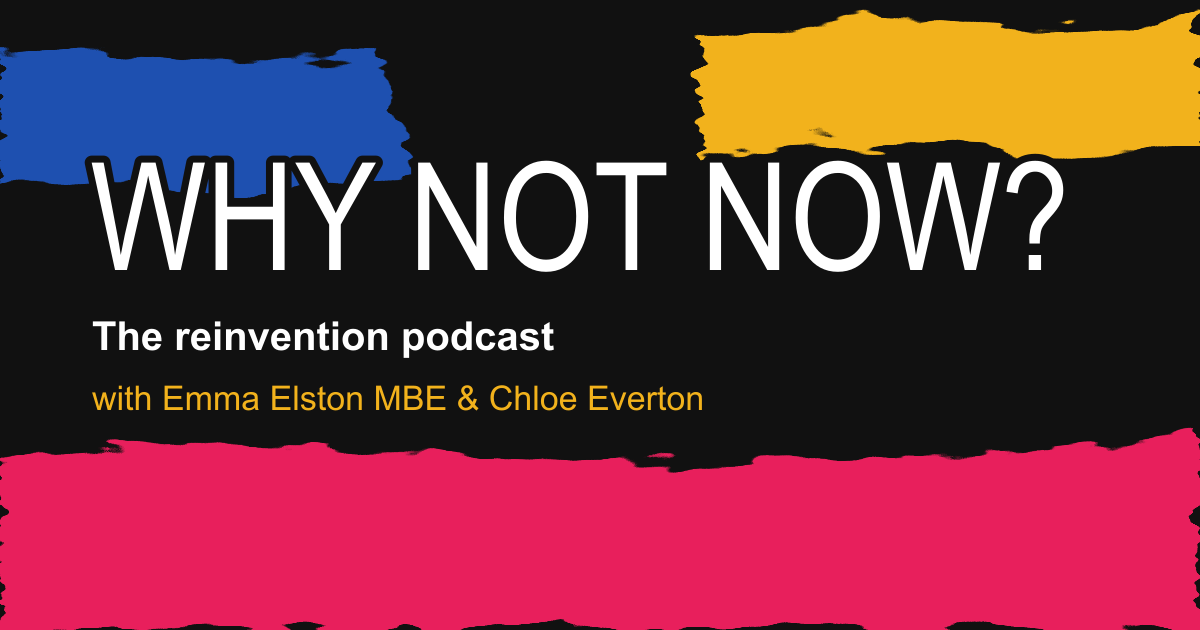
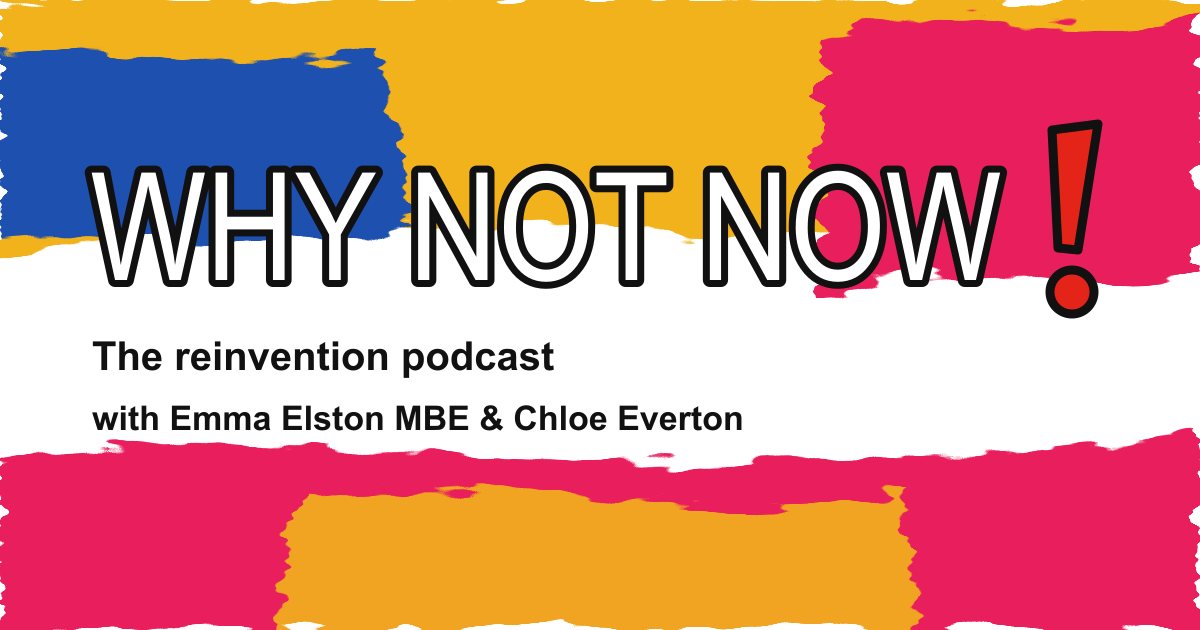
Brighten the whole site to match the brand artwork
Per Chloe's feedback: flip the base from ink to paper. Painted textures
now sit over white (yellow/blue/magenta acrylic, like the cover art),
dark sections become yellow/blue/magenta/painted blocks, and black is
reserved for type, label pills and quote cards. Rebuild the wordmark,
press logo and favicon to mirror the supplied logo (outlined caps with
the red exclamation, new --red token), relight all placeholder imagery
and the Open Graph image, and re-tune accent colours and focus states
for contrast on light backgrounds.

diff --git a/src/styles/global.css b/src/styles/global.css
@@ -11,6 +11,7 @@
   --yellow: #f2b21c;
   --blue: #1e50b0;
   --gold: #c99a4e;
+  --red: #e42418; /* the exclamation-mark red from the logo — logo & small accents only */
 
   --font-display: 'Anton', 'Arial Narrow', sans-serif;
   --font-marker: 'Permanent Marker', cursive;
@@ -38,8 +39,8 @@ html { scroll-behavior: smooth; }
 
 body {
   margin: 0;
-  background: var(--ink);
-  color: var(--paper);
+  background: var(--paper);
+  color: var(--ink);
   font-family: var(--font-body);
   font-size: 1.0625rem;
   line-height: 1.65;
@@ -55,11 +56,11 @@ p:last-child { margin-bottom: 0; }
 ::selection { background: var(--magenta); color: var(--paper); }
 
 :focus-visible {
-  outline: 3px solid var(--yellow);
+  outline: 3px solid var(--blue);
   outline-offset: 3px;
 }
-.on-paper :focus-visible, .section--paper :focus-visible {
-  outline-color: var(--blue);
+.section--ink :focus-visible, .section--magenta :focus-visible, .section--blue :focus-visible {
+  outline-color: var(--yellow);
 }
 
 .skip-link {
@@ -168,25 +169,26 @@ p:last-child { margin-bottom: 0; }
 .section--magenta { background: var(--magenta); color: var(--paper); }
 .section--blue { background: var(--blue); color: var(--paper); }
 
+/* Painted sections are bright: paint over white, ink type on top. */
 .section--painted {
-  background-color: var(--ink);
+  background-color: var(--paper);
   background-image: url('/textures/paint-hero.svg');
   background-size: cover;
   background-position: center;
-  color: var(--paper);
+  color: var(--ink);
 }
 .section--painted-band {
-  background-color: var(--ink);
+  background-color: var(--paper);
   background-image: url('/textures/paint-band.svg');
   background-size: cover;
   background-position: center;
-  color: var(--paper);
+  color: var(--ink);
 }
 /* Small text never relies on texture alone: mute the paint further
    wherever a painted band carries body copy (e.g. the footer). */
 .section--painted-band.texture-quiet {
   background-image:
-    linear-gradient(rgba(17, 17, 17, 0.62), rgba(17, 17, 17, 0.62)),
+    linear-gradient(rgba(255, 255, 255, 0.72), rgba(255, 255, 255, 0.72)),
     url('/textures/paint-band.svg');
 }
 
@@ -240,14 +242,12 @@ p:last-child { margin-bottom: 0; }
 .btn--yellow { background: var(--yellow); color: var(--ink); }
 .btn--paper { background: var(--paper); color: var(--ink); }
 
-/* On ink backgrounds the shadow needs to read against black. */
-.section--ink .btn, .section--painted .btn, .section--painted-band .btn,
-.section--magenta .btn, .section--blue .btn {
+/* On dark/saturated backgrounds the shadow needs to read against the fill. */
+.section--ink .btn, .section--magenta .btn, .section--blue .btn {
   border-color: var(--paper);
   box-shadow: 0.28em 0.28em 0 rgba(255 255 255 / 0.92);
 }
-.section--ink .btn:hover, .section--painted .btn:hover,
-.section--magenta .btn:hover, .section--blue .btn:hover {
+.section--ink .btn:hover, .section--magenta .btn:hover, .section--blue .btn:hover {
   box-shadow: 0.45em 0.45em 0 rgba(255 255 255 / 0.92);
 }
 
@@ -377,10 +377,11 @@ p:last-child { margin-bottom: 0; }
    -------------------------------------------------------------------------- */
 
 .player {
-  border: 3px solid currentColor;
+  border: 3px solid var(--ink);
   padding: 1rem;
-  background: var(--ink); /* solid backdrop — small text never sits on texture */
-  color: var(--paper);
+  background: var(--paper); /* solid backdrop — small text never sits on texture */
+  color: var(--ink);
+  box-shadow: 0.35em 0.35em 0 var(--ink);
 }
 .player audio { width: 100%; display: block; }
 
